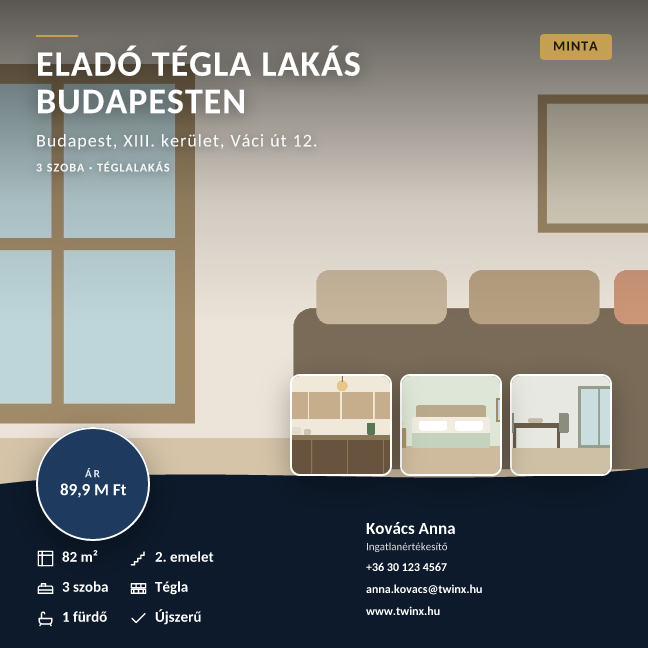
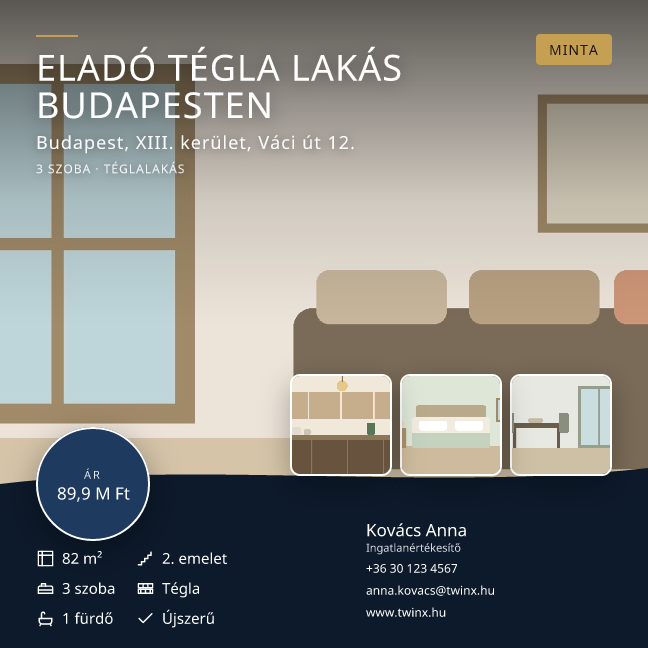
Magazin sablon: fix Playfair Display főcím, magyar ékezet-ellenőrzéssel és visszaeséssel

diff --git a/src/lib/google-font.ts b/src/lib/google-font.ts
@@ -47,3 +47,80 @@ export function loadGoogleFont(family: string, text: string): Promise<LoadedFont
   if (!cache.has(key)) cache.set(key, fetchFamily(family, text).catch((e) => { cache.delete(key); throw e; }));
   return cache.get(key)!;
 }
+
+// --- Magyar ékezet-ellenőrzés -------------------------------------------------
+// A hosszú kettős ékezetek (ő ű Ő Ű) sok díszes betűkészletből HIÁNYOZNAK, és a
+// Google ilyenkor csendben kihagyja őket → a hirdetésen üres négyzet jelenne meg.
+// Ezért a betűfájl karaktertáblájából (cmap) tételesen ellenőrizzük őket.
+const HU_REQUIRED = [
+  0x0151, 0x0171, 0x0150, 0x0170, // ő ű Ő Ű
+  0x00e1, 0x00e9, 0x00ed, 0x00f3, 0x00f6, 0x00fa, 0x00fc, // á é í ó ö ú ü
+  0x00c1, 0x00c9, 0x00cd, 0x00d3, 0x00d6, 0x00da, 0x00dc, // Á É Í Ó Ö Ú Ü
+];
+
+/** Egy TTF/OTF cmap táblájából kiolvassa a lefedett kódpontokat (4-es és 12-es formátum). */
+function cmapHas(data: ArrayBuffer, codepoints: number[]): boolean {
+  try {
+    const v = new DataView(data);
+    const numTables = v.getUint16(4);
+    let cmapOff = 0;
+    for (let i = 0; i < numTables; i++) {
+      const rec = 12 + i * 16;
+      const tag = String.fromCharCode(v.getUint8(rec), v.getUint8(rec + 1), v.getUint8(rec + 2), v.getUint8(rec + 3));
+      if (tag === "cmap") { cmapOff = v.getUint32(rec + 8); break; }
+    }
+    if (!cmapOff) return false;
+
+    // A legjobb alátábla kiválasztása: Unicode teljes (3,10) → BMP (3,1) → bármi.
+    const nSub = v.getUint16(cmapOff + 2);
+    let best = 0, bestScore = -1;
+    for (let i = 0; i < nSub; i++) {
+      const rec = cmapOff + 4 + i * 8;
+      const pid = v.getUint16(rec), eid = v.getUint16(rec + 2);
+      const off = cmapOff + v.getUint32(rec + 4);
+      const score = pid === 3 && eid === 10 ? 3 : pid === 3 && eid === 1 ? 2 : pid === 0 ? 1 : 0;
+      if (score > bestScore) { bestScore = score; best = off; }
+    }
+    if (!best) return false;
+
+    const covered = new Set<number>();
+    const format = v.getUint16(best);
+    if (format === 4) {
+      const segX2 = v.getUint16(best + 6);
+      const endBase = best + 14;
+      const startBase = endBase + segX2 + 2;
+      const deltaBase = startBase + segX2;
+      const rangeBase = deltaBase + segX2;
+      for (let s = 0; s < segX2 / 2; s++) {
+        const end = v.getUint16(endBase + s * 2);
+        const start = v.getUint16(startBase + s * 2);
+        if (start > end || end === 0xffff) continue;
+        for (const cp of codepoints) if (cp >= start && cp <= end) {
+          const ro = v.getUint16(rangeBase + s * 2);
+          if (ro === 0) { if (((cp + v.getInt16(deltaBase + s * 2)) & 0xffff) !== 0) covered.add(cp); }
+          else {
+            const gi = v.getUint16(rangeBase + s * 2 + ro + (cp - start) * 2);
+            if (gi !== 0) covered.add(cp);
+          }
+        }
+      }
+    } else if (format === 12) {
+      const nGroups = v.getUint32(best + 12);
+      for (let g = 0; g < nGroups; g++) {
+        const rec = best + 16 + g * 12;
+        const start = v.getUint32(rec), end = v.getUint32(rec + 4);
+        for (const cp of codepoints) if (cp >= start && cp <= end) covered.add(cp);
+      }
+    } else {
+      return false; // ismeretlen formátum — inkább ne kockáztassunk
+    }
+    return codepoints.every((cp) => covered.has(cp));
+  } catch {
+    return false;
+  }
+}
+
+/** Igaz, ha MINDEN betöltött súly tartalmazza a magyar ékezetes betűket. */
+export function supportsHungarian(fonts: LoadedFont[]): boolean {
+  return fonts.length > 0 && fonts.every((f) => cmapHas(f.data, HU_REQUIRED));
+}

diff --git a/src/app/api/flyer/render/route.ts b/src/app/api/flyer/render/route.ts
@@ -7,7 +7,7 @@ import { createClient } from "@/lib/supabase/server";
 import { getBrandingFont } from "@/lib/branding";
 import { getFlyerSize, getFlyerTemplate, type RenderOpts } from "@/lib/flyer-poster";
 import { buildFlyerElement } from "@/lib/flyer-satori";
-import { loadGoogleFont, googleFamilyOf } from "@/lib/google-font";
+import { loadGoogleFont, googleFamilyOf, supportsHungarian } from "@/lib/google-font";
 import type { FlyerProfileData } from "@/lib/flyer-template";
 
 export const runtime = "nodejs";
@@ -15,6 +15,8 @@ export const maxDuration = 60;
 
 const ALLOWED = ["image/jpeg", "image/png", "image/webp"];
 const FALLBACK_FAMILY = "Montserrat";
+// A magazin sablon FIX címbetűje (nem az arculatból jön) — klasszikus magazin-serif.
+const DISPLAY_FAMILY = "Playfair Display";
 
 async function toDataUri(f: File): Promise<string> {
   const b64 = Buffer.from(await f.arrayBuffer()).toString("base64");
@@ -92,6 +94,25 @@ export async function POST(request: Request) {
       weight: (f.weight >= 700 ? 700 : 400) as 400 | 700,
     }));
 
+    // A MAGAZIN sablon főcíme fix, elegáns magazin-serifet kap (a többi szöveg
+    // marad az arculati betűn). Csak akkor kapcsoljuk be, ha a betű TÉNYLEG
+    // tartalmazza a magyar ékezeteket (ő ű Ő Ű) — különben üres négyzet lenne.
+    let displayFamily: string | undefined;
+    if (template === "openhouse") {
+      const disp = await loadGoogleFont(DISPLAY_FAMILY, charset).catch(() => null);
+      if (disp && supportsHungarian(disp)) {
+        displayFamily = DISPLAY_FAMILY;
+        fonts.push(
+          ...disp.map((f) => ({
+            name: DISPLAY_FAMILY, data: f.data, style: "normal" as const,
+            weight: (f.weight >= 700 ? 700 : 400) as 400 | 700,
+          }))
+        );
+      } else if (disp) {
+        console.warn(`[flyer] ${DISPLAY_FAMILY}: hiányos magyar ékezetkészlet — arculati betű marad.`);
+      }
+    }
+
     const heroPos = {
       x: Math.max(0, Math.min(100, Number(form.get("heroX") ?? 50) || 50)),
       y: Math.max(0, Math.min(100, Number(form.get("heroY") ?? 50) || 50)),
@@ -115,6 +136,7 @@ export async function POST(request: Request) {
     const H = Math.round(size.h * SCALE);
     const opts: RenderOpts = {
       images, width: W, height: H, profile, text, mood, watermark, template, thumbLabels,
+      displayFamily,
       heroPos, thumbSlots, heroDim: heroDim.w && heroDim.h ? heroDim : undefined,
     };
     const element = buildFlyerElement(opts, family);

diff --git a/src/lib/flyer-satori-openhouse.tsx b/src/lib/flyer-satori-openhouse.tsx
@@ -69,19 +69,32 @@ export function buildOpenHouseElement(o: RenderOpts, family: string): React.Reac
       )
     : 0;
   const subH = subtitle ? Math.round(subFs * 1.3) + Math.round(14 * u) : 0;
+  // A magazinos serif verzáljai keskenyebbek a sans félkövérnél, ezért kisebb
+  // karakterszélességgel számolunk — így nagyobb, de még kiférő címet kapunk.
+  const titleCharW = o.displayFamily ? 0.66 : 0.75;
   const titleBudget = Math.round(heroH * (g.story ? 0.46 : 0.62)) - subH;
   let titleFs = Math.round(26 * u);
   for (const maxLines of [3, 2]) {
-    const fs = fitHeadline(title, titleColW, 100 * u * titleK, 26 * u, maxLines, 0.75);
-    const perLine = Math.max(1, Math.floor((titleColW * 0.97) / (fs * 0.75)));
+    const fs = fitHeadline(title, titleColW, 100 * u * titleK, 26 * u, maxLines, titleCharW);
+    const perLine = Math.max(1, Math.floor((titleColW * 0.97) / (fs * titleCharW)));
     const lines = Math.max(1, Math.ceil(title.length / perLine));
     titleFs = fs;
     if (lines * Math.round(fs * 1.08) <= titleBudget) break;
   }
 
+  // FONTOS: a Satori elhasal az `undefined` stílusértéken — a betűcsaládot csak
+  // akkor tesszük rá, ha tényleg betöltött (magyar ékezetekkel együtt).
+  const titleStyle: Style = {
+    fontSize: titleFs, fontWeight: 700, color: "#ffffff", lineHeight: 1.04,
+    // A serif magától is elegáns, nem kell szétfeszíteni; a sansnál marad a ritkítás.
+    letterSpacing: o.displayFamily ? 0 : Math.round(1 * u),
+    textShadow: "0 2px 18px rgba(0,0,0,0.55)",
+  };
+  if (o.displayFamily) titleStyle.fontFamily = o.displayFamily;
+
   const titleCol = box(
     { flexDirection: "column", width: titleColW, flexShrink: 0, overflow: "hidden" },
-    box({ fontSize: titleFs, fontWeight: 700, color: "#ffffff", lineHeight: 1.04, letterSpacing: Math.round(1 * u), textShadow: "0 2px 18px rgba(0,0,0,0.55)" }, title)
+    box(titleStyle, title)
   );
 
   // A cím külön, teljes szélességű sor — sosem tördelődik.

diff --git a/src/lib/flyer-poster.ts b/src/lib/flyer-poster.ts
@@ -229,6 +229,12 @@ export type RenderOpts = {
   template?: string;
   /** A kis képek feliratai (helyiségnevek) — csak a feliratos sablonoknál. */
   thumbLabels?: string[];
+  /**
+   * A FŐCÍM fix, magazinos betűcsaládja (a Satorinak átadott név). Csak akkor van
+   * kitöltve, ha a betű betöltődött ÉS tartalmazza a magyar ékezeteket; különben
+   * a cím is az arculati betűvel készül.
+   */
+  displayFamily?: string;
   /** A főkép kivágásának igazítása százalékban (50/50 = középre). */
   heroPos?: { x: number; y: number };
   /** A főkép eredeti mérete (px) — ebből számoljuk a VALÓDI mozgásteret. */
